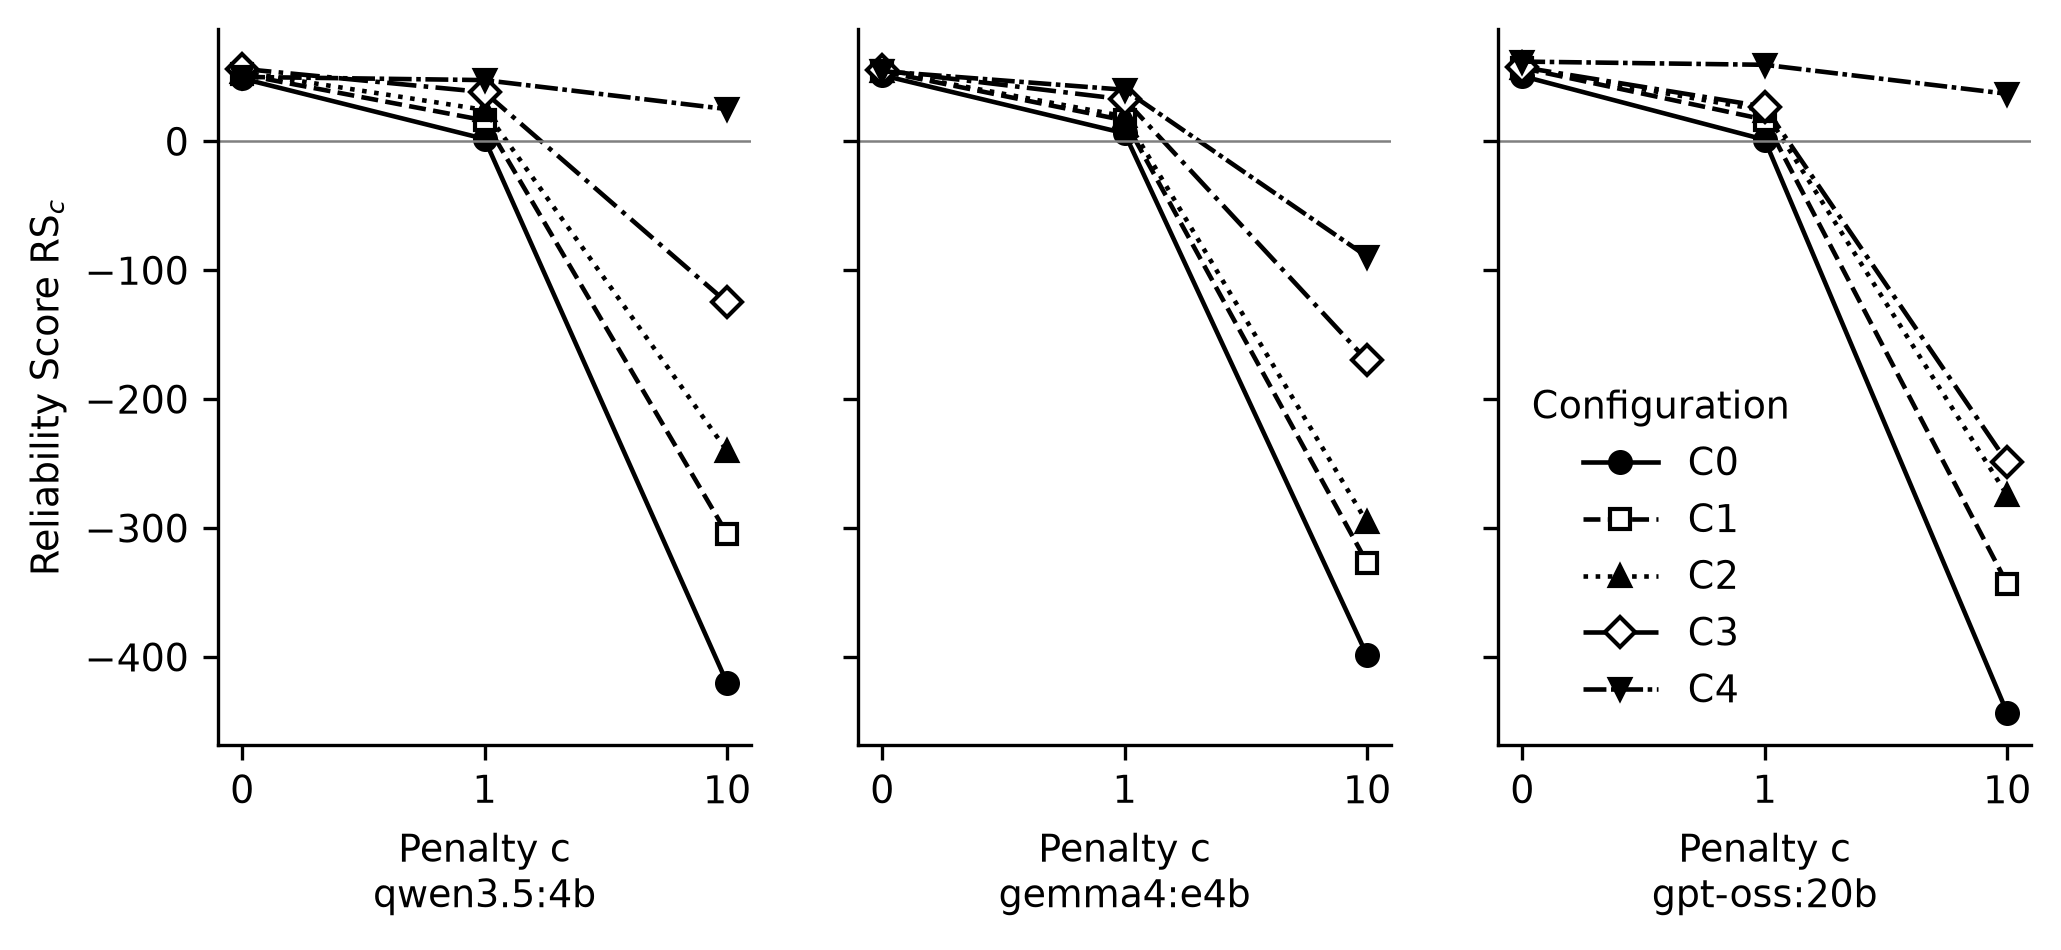
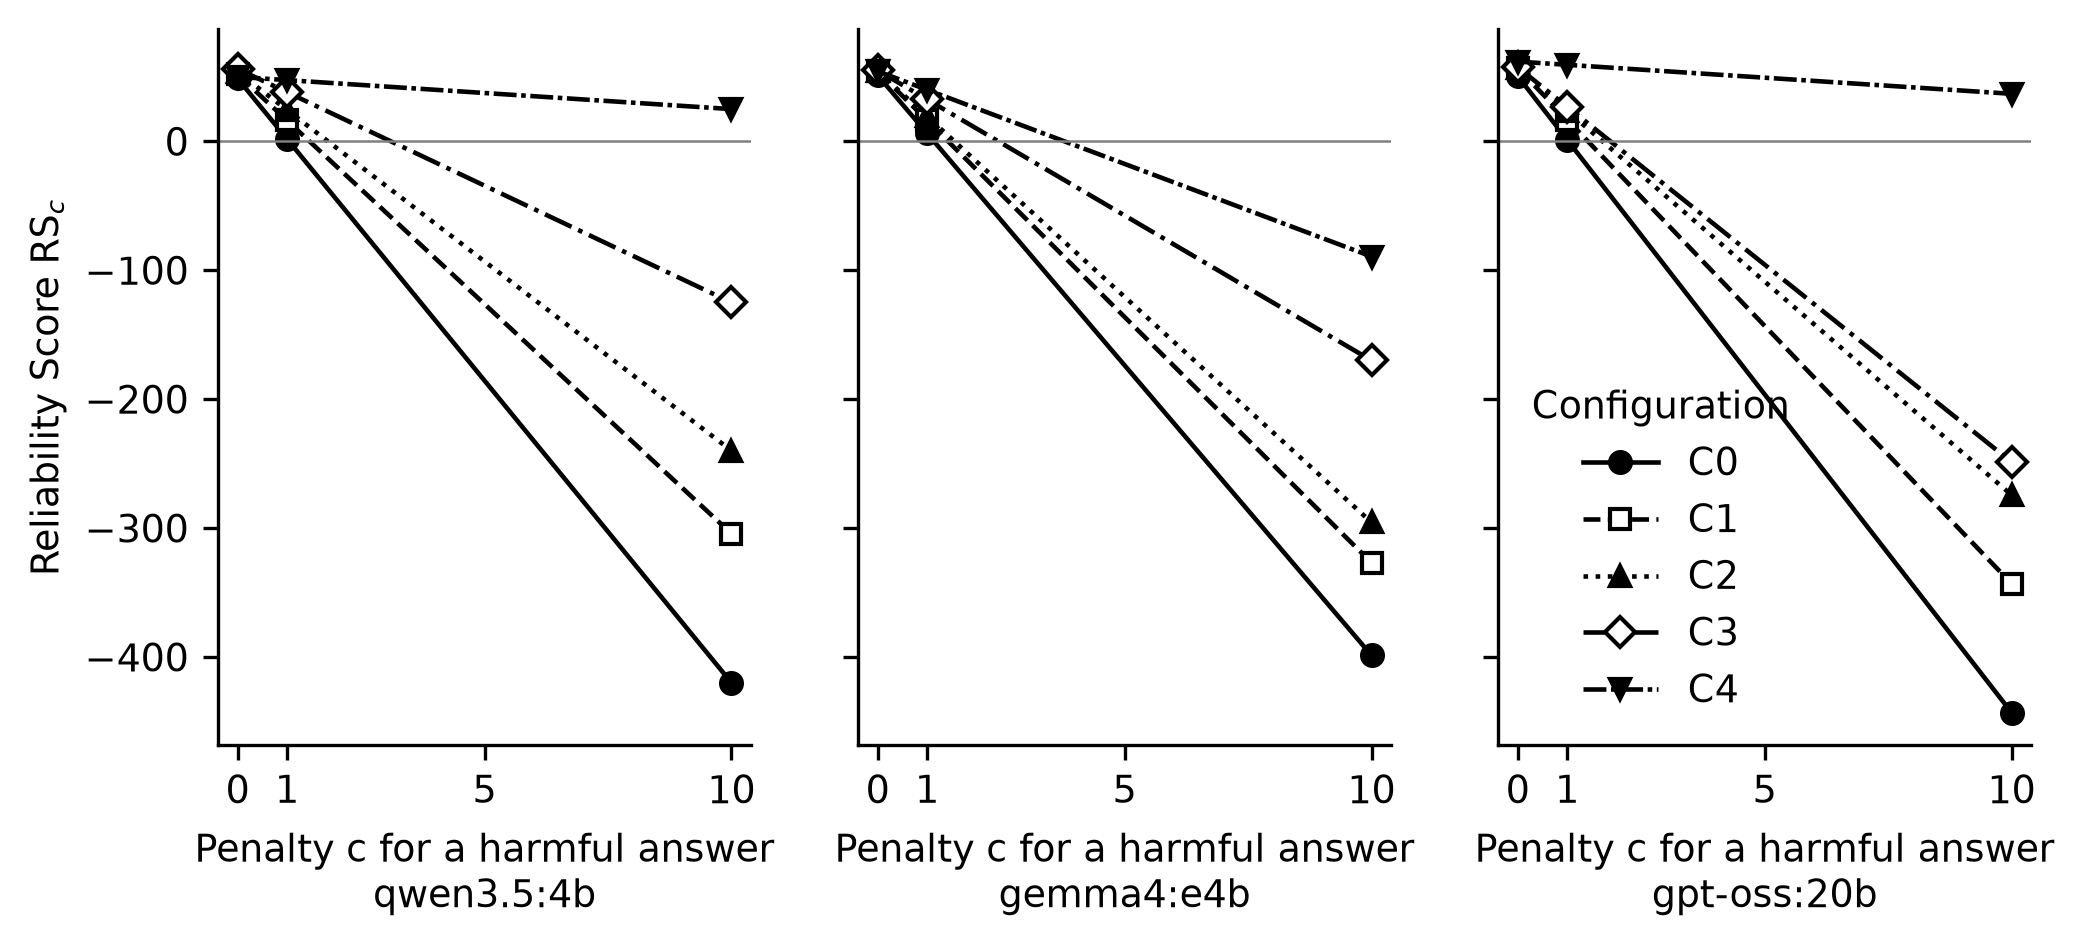
P7B follow-ups: numeric penalty axis, more paired differences

diff --git a/src/claimssql/eval/figures.py b/src/claimssql/eval/figures.py
@@ -141,7 +141,12 @@ def fig7_2_harmful_by_config(tables: Path) -> Figure:
 
 
 def fig7_3_rs_vs_penalty(tables: Path, split: str = "test") -> Figure:
-    """Reliability Score at penalty c = 0, 1, 10; one line per config, one panel per model."""
+    """Reliability Score against the penalty c; one line per config, one panel per model.
+
+    RS_c = RS_0 - c x (harmful answers as % of questions), so it is a straight line
+    in c. It is drawn as the line through RS_0 and RS_10 on a true numeric axis,
+    with markers at the three penalties the report uses (c = 0, 1, 10).
+    """
     data = read(tables, "e2_rs_by_config_penalty.csv")
     data = data[data["split"] == split]
     models, labels = model_order(tables), model_labels(tables)
@@ -150,12 +155,19 @@ def fig7_3_rs_vs_penalty(tables: Path, split: str = "test") -> Figure:
     for ax, model in zip(axes, models, strict=True):
         rows = data[data["model"] == model].set_index("config")
         for c, config in enumerate(CONFIGS):
-            ax.plot(range(3), [rows.loc[config, f"rs_{p}"] for p in penalties], color="black",
-                    marker=MARKERS[c], linestyle=LINES[c], markersize=5, linewidth=1.1,
-                    markerfacecolor="white" if c % 2 else "black", label=config)
+            start, end = rows.loc[config, "rs_0"], rows.loc[config, "rs_10"]
+            style = {"color": "black", "linewidth": 1.1}
+            ax.plot([0, 10], [start, end], linestyle=LINES[c], **style)
+            ax.plot(penalties, [rows.loc[config, f"rs_{p}"] for p in penalties],
+                    linestyle="none", marker=MARKERS[c], markersize=5,
+                    markerfacecolor="white" if c % 2 else "black", markeredgecolor="black")
+            # Legend entry with both the line style and the marker of this config.
+            ax.plot([], [], linestyle=LINES[c], marker=MARKERS[c], markersize=5,
+                    markerfacecolor="white" if c % 2 else "black", label=config, **style)
         ax.axhline(0, color="0.5", linewidth=0.6)
-        ax.set_xticks(range(3), [str(p) for p in penalties])
-        ax.set_xlabel(f"Penalty c\n{labels.get(model, model)}")
+        ax.set_xlim(-0.4, 10.4)
+        ax.set_xticks([0, 1, 5, 10])
+        ax.set_xlabel(f"Penalty c for a harmful answer\n{labels.get(model, model)}")
     axes[0].set_ylabel("Reliability Score RS$_c$")
     axes[-1].legend(title="Configuration", loc="lower left")
     return fig

diff --git a/tests/test_stats.py b/tests/test_stats.py
@@ -182,7 +182,11 @@ def test_differences_auroc_and_info_tables(tables):
     rs = differences[("m C4 minus m C0", "rs_10")]
     assert (rs["difference"], rs["resamples_used"]) == ("400.0", "200")
     assert differences[("m C4 minus m C0", "harmful")]["difference"] == "-4.0"
-    assert len(differences) == 2  # one model: no cross-model comparison
+    # AUROC(1 - agreement) 0.7 minus AUROC(100 - confidence) 0.45, by hand in test_eval.
+    signal = differences[("m AUROC(1 - agreement) minus m AUROC(100 - confidence)", "auroc")]
+    assert signal["difference"] == "0.25"
+    assert float(signal["lo"]) <= 0.25 <= float(signal["hi"])
+    assert len(differences) == 3  # one model: no cross-model comparison
 
     auroc = {r["signal"]: r for r in read(tables / "e4_auroc_ci.csv")}
     agreement = auroc["1 - agreement"]
@@ -231,6 +235,7 @@ def test_real_models_have_report_info():
     # RQ4 pairs: each smaller model's C4 against the largest model's C0.
     assert cross_model_pairs(["qwen", "gemma", "mid_oss"], configs) == [
         (("qwen", "C4"), ("mid_oss", "C0")), (("gemma", "C4"), ("mid_oss", "C0")),
+        (("mid_oss", "C4"), ("qwen", "C4")), (("mid_oss", "C4"), ("gemma", "C4")),
     ]  # fmt: skip
     assert cross_model_pairs(["qwen"], configs) == []
 
@@ -252,6 +257,23 @@ def test_every_figure_renders_at_300_dpi(name, tables, tmp_path):
         assert image.width > 900
     assert all(not ax.get_title() for ax in fig.axes)  # no titles inside the images
     assert all(ax.get_ylabel() or ax.get_xlabel() for ax in fig.axes)
+
+
+def test_rs_figure_uses_a_numeric_penalty_axis(tables):
+    import matplotlib.pyplot as plt
+
+    fig = figures.fig7_3_rs_vs_penalty(tables)
+    ax = fig.axes[0]
+    assert list(ax.get_xticks()) == [0, 1, 5, 10]
+    lines = [line for line in ax.get_lines() if list(line.get_xdata()) == [0, 10]]
+    markers = [line for line in ax.get_lines() if list(line.get_xdata()) == [0, 1, 10]]
+    assert len(lines) == len(markers) == 5  # one line and one set of markers per config
+    # C0 at test: RS_0 = 40, RS_1 = -20, RS_10 = -560. The line runs from RS_0 to RS_10
+    # and RS_1 lies on it, because RS_c is linear in c.
+    assert list(lines[0].get_ydata()) == [40.0, -560.0]
+    assert list(markers[0].get_ydata()) == [40.0, -20.0, -560.0]
+    assert 40.0 + (-560.0 - 40.0) / 10 * 1 == -20.0
+    plt.close(fig)
 
 
 def test_figure_names_and_model_order(tables):

diff --git a/src/claimssql/eval/bootstrap.py b/src/claimssql/eval/bootstrap.py
@@ -35,6 +35,7 @@ PENALTIES = (0, 1, 10)
 METRICS = ("ex", "coverage", "risk", "rs_0", "rs_1", "rs_10",
            "harmful", "answerable_wrong", "infeasible_answered")  # fmt: skip
 SIGNALS = ("1 - agreement", "100 - confidence", "sql length")
+AUROC_COMPARISON = ("1 - agreement", "100 - confidence")  # reported as first minus second
 
 
 @dataclass(frozen=True)
@@ -191,6 +192,7 @@ def bootstrap_report(
              "differences": [(label_a, label_b, metric, Estimate)],
              "auroc": {(model, signal): Estimate}, "n": ..., "resamples": ...}.
     `cross_model`: extra RS_10 differences, e.g. (("qwen", "C4"), ("mid_oss", "C0")).
+    For every model it also adds AUROC(1 - agreement) minus AUROC(100 - confidence).
     """
     ids, groups = question_order(records)
     cases = case_arrays(records, taus, ids)
@@ -223,13 +225,20 @@ def bootstrap_report(
     auroc = {}
     for model, arrays in signal_arrays(records, ids).items():
         answered, wrong = arrays["answered"], arrays["wrong"]
+        points, values = {}, {}
         for name in SIGNALS:
-            point = fast_auroc(wrong[answered], arrays[name][answered])
-            values = np.empty(resamples)
+            points[name] = fast_auroc(wrong[answered], arrays[name][answered])
+            values[name] = np.empty(resamples)
             for row in range(resamples):
                 picked = index[row][answered[index[row]]]
-                values[row] = fast_auroc(wrong[picked], arrays[name][picked])
-            auroc[(model, name)] = estimate(point, values)
+                values[name][row] = fast_auroc(wrong[picked], arrays[name][picked])
+            auroc[(model, name)] = estimate(points[name], values[name])
+        # Does self-consistency beat the model's own confidence? Paired: both
+        # AUROCs come from the same resampled questions.
+        first, second = AUROC_COMPARISON
+        differences.append((f"{model} AUROC({first})", f"{model} AUROC({second})", "auroc",
+                            estimate(points[first] - points[second],
+                                     values[first] - values[second])))  # fmt: skip
 
     return {"metrics": metrics, "differences": differences, "auroc": auroc,
             "n": len(ids), "resamples": resamples}  # fmt: skip

diff --git a/src/claimssql/eval/report_stats.py b/src/claimssql/eval/report_stats.py
@@ -46,15 +46,22 @@ def _with_bounds(names: tuple[str, ...]) -> list[str]:
 
 
 def cross_model_pairs(models: list[str], configs: list[ModelConfig]) -> list[tuple]:
-    """Each smaller model's C4 against the largest model's C0 (RQ4: can a small
-    verified model match a bigger unverified one?). "Largest" = biggest size_gb
-    in models.yaml; no pairs if sizes are not recorded."""
+    """RS_10 comparisons across models (RQ4). "Largest" = biggest size_gb in
+    models.yaml; no pairs if sizes are not recorded.
+
+      each smaller model's C4 against the largest model's C0
+          (can a small verified model match a bigger unverified one?)
+      the largest model's C4 against each smaller model's C4
+          (with full verification on both, how much does size still add?)
+    """
     size = {c.key: c.info.get("size_gb") for c in configs if c.key in models}
     known = {k: v for k, v in size.items() if isinstance(v, (int, float))}
     if len(known) < 2:
         return []
     largest = max(known, key=known.get)
-    return [((model, "C4"), (largest, "C0")) for model in models if model != largest]
+    smaller = [model for model in models if model != largest]
+    return ([((model, "C4"), (largest, "C0")) for model in smaller]
+            + [((largest, "C4"), (model, "C4")) for model in smaller])  # fmt: skip
 
 
 def ci_tables(
@@ -80,7 +87,8 @@ def ci_tables(
     differences = []
     for label_a, label_b, name, est in result["differences"]:
         excludes = est.excludes_zero()
-        differences.append((f"{label_a} minus {label_b}", name, *_triple(est, 2), est.used,
+        digits = 4 if name == "auroc" else 2
+        differences.append((f"{label_a} minus {label_b}", name, *_triple(est, digits), est.used,
                             "" if excludes is None else ("yes" if excludes else "no")))  # fmt: skip
 
     signals = {(m, s): row for m in {r["model_key"] for r in test_records}

diff --git a/README.md b/README.md
@@ -157,7 +157,7 @@ figures use grey levels, hatching and markers, so they print in black and white.
 | `python -m claimssql.verify.schema_check` | P5 | Runs the schema check (V1) on every gold query in `questions.jsonl`. All must pass; a failure would be a false positive in V1. Exit code 1 if any fails. |
 | `python -m claimssql.eval.run_benchmark --stage generate\|verify\|all` | P6 | Runs the benchmark. `generate` makes the LLM calls (no database needed, resumable through the cache); `verify` re-reads them from the cache, runs V1–V3 and appends to `results/runs/<run-id>.jsonl`. Options: `--run-id`, `--models`, `--groups`, `--split`, `--ids`, `--limit`. Exit code 2 = stopped by a rate limit; run again to continue. |
 | `python -m claimssql.eval.report --run-id X` | P6/P7 | Scores a run offline and writes the report tables to `results/tables/`: `e1`–`e5`, `outcomes_confusion.csv`, `tau_selection.csv`, `failures.jsonl`, the 95% confidence-interval tables (`e2_rs_ci`, `e3_harmful_ci`, `e4_auroc_ci`, `differences_ci`), figure data and `table6_1_models.csv` / `table7_1_latency_cost.csv`. `--resamples` and `--seed` override the bootstrap settings in `configs/experiment.yaml`. |
-| `python -m jupyter execute notebooks/analysis.ipynb --inplace` | P7 | Draws the report's figures from `results/tables/` and saves 300-dpi PNGs to `results/figures/` (needs `pip install -e ".[notebook]"`). |
+| `python -m jupyter execute notebooks/analysis.ipynb --inplace` | P7 | On Windows set `$env:PYTHONUTF8=1` first (Jupyter otherwise reads the notebook in the Windows code page and fails). Draws the report's figures from `results/tables/` and saves 300-dpi PNGs to `results/figures/` (needs `pip install -e ".[notebook]"`). |
 | `python scripts/make_kaggle_bundle.py` | P6 | Zips what generation needs (`src/`, `configs/`, the catalogue, `questions.jsonl`, `pyproject.toml`) into `dist/claimssql_bundle.zip`, with the git commit and a cache-key fingerprint inside. Warns about uncommitted changes. |
 | `python scripts/merge_cache.py cache_qwen.zip ...` | P6 | Copies the LLM cache downloaded from Kaggle into `results/cache/`, skipping files already present. Warns if a zip was made from a different commit. |
 | `python scripts/build_demo_db.py` | P7 | Builds `data/demo.duckdb` (5,000 fixed random beneficiaries with all their claims) and `app_data/explorer.jsonl` (what the benchmark explorer shows) from `results/runs/full.jsonl`. |
